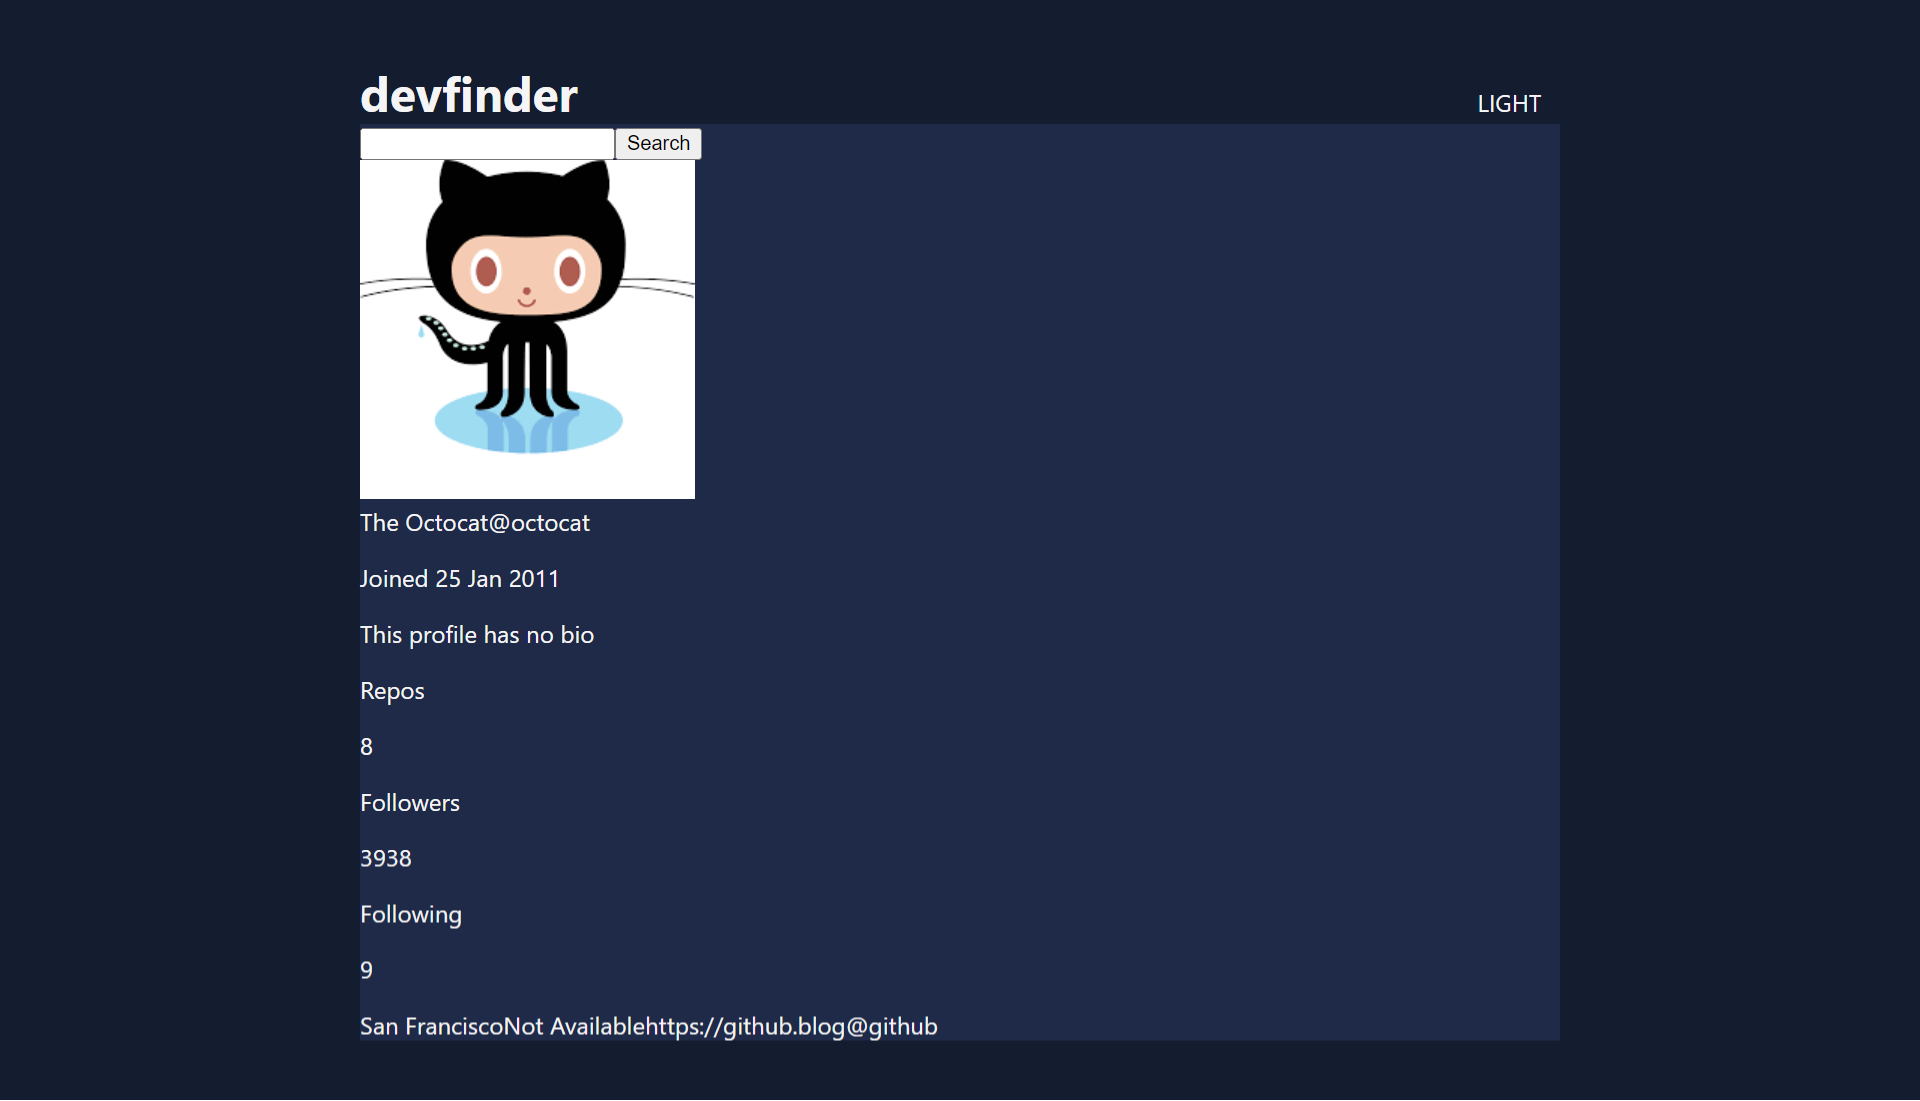
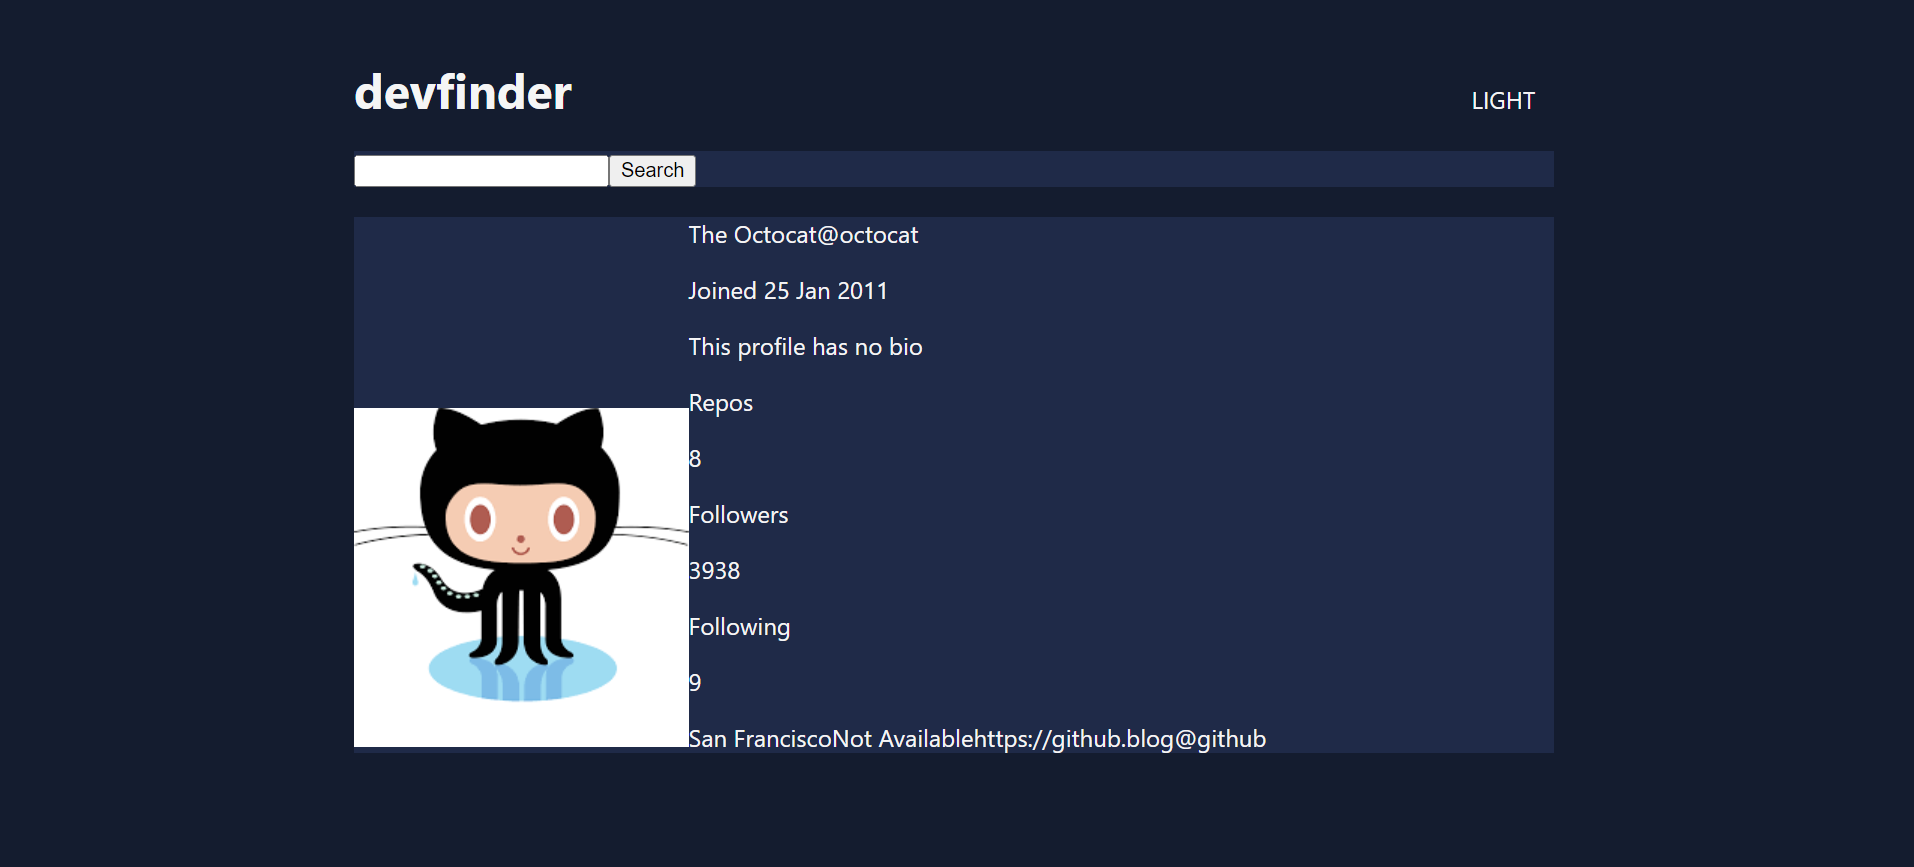
Start on box model lesson

Changed region(s): [[0.185, 0.0623, 0.8323, 0.9654], [0.0, 0.9965, 1.0, 1.0]]

diff --git a/progressed-version/App.jsx b/progressed-version/App.jsx
@@ -14,7 +14,7 @@ function App() {
         </button>
       </div>
       <div className="search-result-card">
-        <img className="search-result-card__logo" src="/avatar.png" />
+        <img className="user-image" src="/avatar.png" />
         <div className="user-details">
           <div className="user-details__headline">
             <div className="user-details__name">

diff --git a/lessons/3-css-box-model.md b/lessons/3-css-box-model.md
@@ -1,8 +1,18 @@
 # The CSS Box Model
 
-- common units
-  - setting wrapper width as a % rather than pixel is a cheap way to make it responsive
-  - vh use case: filling the page by setting height to 100vh
+![CSS box model diagram](https://github.com/minkaotic/front-end-notes/blob/master/img/box_model.png?raw=true)
+
+- `padding` = gap from border of the container to the *inner contents*
+- `margin` = gap from border of the container to the other elements *around it*
+
+> 🔥 **NOTE: `width` generally applies only to the *content* of the box, i.e. not including its padding and border!** (To flip this behaviour around, use `box-sizing: border-box;` - this dynamically subtracts the borders and paddings from the width/height properties we set, esp. useful when defining dimensions relative to parent containers etc.)
+
+### Common units for dimensions
+Values provided in `px` are absolute, but there are also a number of **useful relative units**, which are key for responsive design:
+- `em`: relative to parent's pixel size; and default to 16px at root
+- `rem`: relative to root elemen's pixel size, thus avoiding compounding issues
+- `%`: always relative to parent container
+- `vh`/`vw` relative to viewport (=screen); common use case: filling the page even when there is little content by setting `  min-height: 100vh;`
 
 
 width vs max-width etc.
@@ -13,7 +23,7 @@ width vs max-width etc.
 
   1. Lets give the `search-bar` and `search-result-card` sensible padding, margins and a border radius.
 
-  1. Set the `#root` width as a `%` value so its somewhat responsive. Set a `max-width` that it shouldn't cross beyond on large screens.
+  1. Set the `#root` width as a `%` or `vw` value so its somewhat responsive. Set a `max-width` that it shouldn't cross beyond on large screens.
 
 
 **[>> Check solution](/lessons/3-css-box-model__solution.md)**

diff --git a/lessons/2-display-modes.md b/lessons/2-display-modes.md
@@ -40,11 +40,13 @@ display: grid;  // not part of this workshop
 
 1. Rather than repeating the rules for each `<div>`, apply them to a wrapper element - in this exercise, we can use our app's `#root` div for this purpose. Use it to centre the content & give it a width!
 
-1. Lets give the `search-bar` and `search-result-card` a different background colour: `#1F2A48`.
+1. Lets give the `search-bar` and `search-result-card` a different background colour: `#1F2A48`, and top and bottom margins.
 
-1. Get the 'devfinder' headline and 'LIGHT' mode switch to display alongside each other by changing the display mode
+1. Work out the appropriate display mode to change in order to:
+    - Get the 'devfinder' headline and 'LIGHT'-mode switch to display side by side
+    - Get the `user-image` and `user-details` to display side by side
 
-1. Set a sensible top and bottom margin for our `#root` wrapper
+1. Set a sensible top and bottom margin for our `#root` wrapper.
 
 **[>> Check solution](/lessons/1-breaking-down-the-design__solution.md)**
 

diff --git a/lessons/1-breaking-down-the-design__solution.md b/lessons/1-breaking-down-the-design__solution.md
@@ -15,7 +15,7 @@ Our basic markup should look something like this:
         </button>
     </div>
     <div className="search-result-card">
-        <img className="search-result-card__logo" src="/avatar.png" />
+        <img className="user-image" src="/avatar.png" />
         <div className="user-details">
             <div className="user-details__headline">
                 <div className="user-details__name">

diff --git a/lessons/2-display-modes_solution.md b/lessons/2-display-modes_solution.md
@@ -18,6 +18,11 @@ Your CSS should look something like this:
 .search-bar,
 .search-result-card {
   background-color: #1F2A48;
+  margin: 20px 0;
+}
+
+.user-details {
+  display: inline-block;
 }
 ```
 
